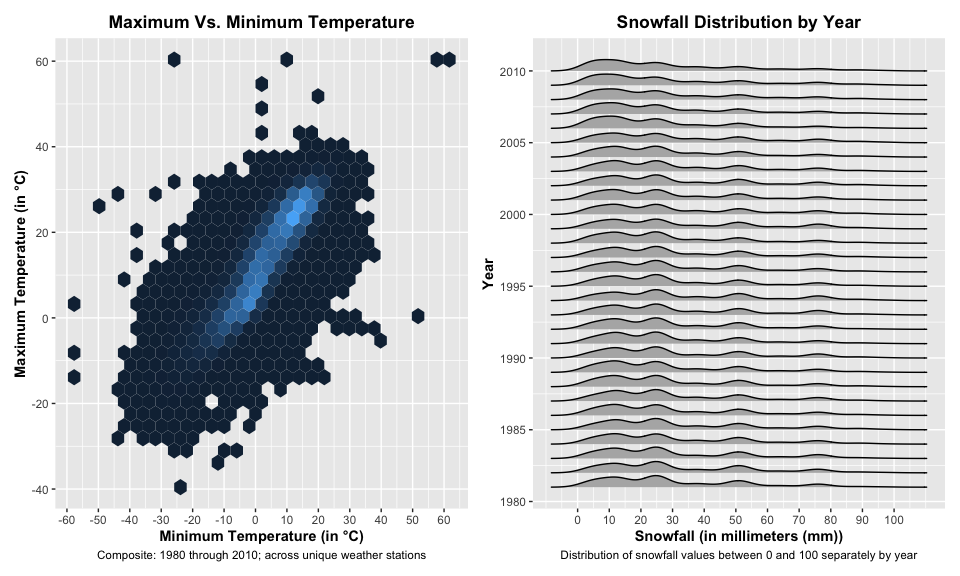
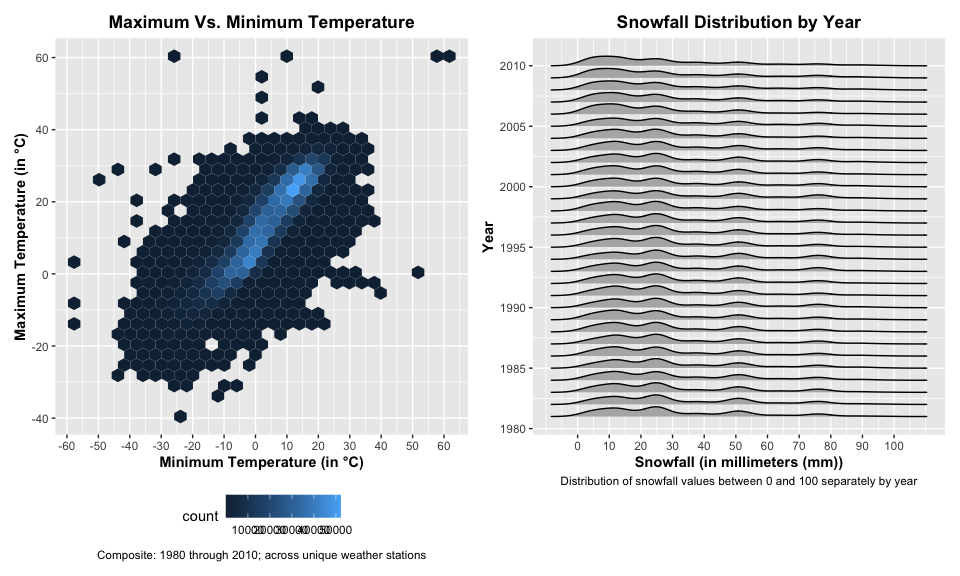
minor change to 3.3

diff --git a/p8105_hw3_td2749.md b/p8105_hw3_td2749.md
@@ -327,7 +327,7 @@ tmax_vs_tmin =
        y = "Maximum Temperature (in °C)",
        caption = "Composite: 1980 through 2010; across unique weather stations") +
     theme(
-      legend.position = "none",
+      legend.position = "bottom",
       plot.title = element_text(hjust = 0.5, face = "bold"),
       plot.caption = element_text(hjust = 0.5),
       axis.title = element_text(face = "bold"))
